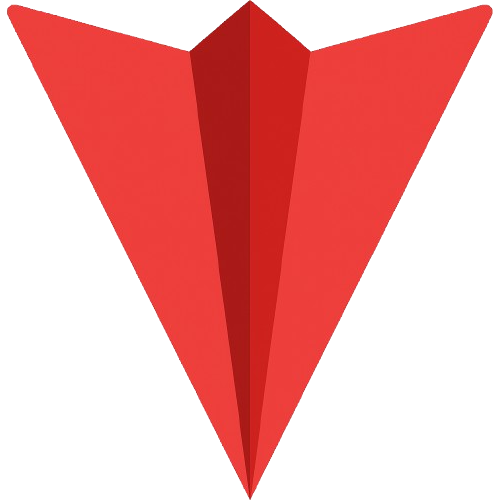
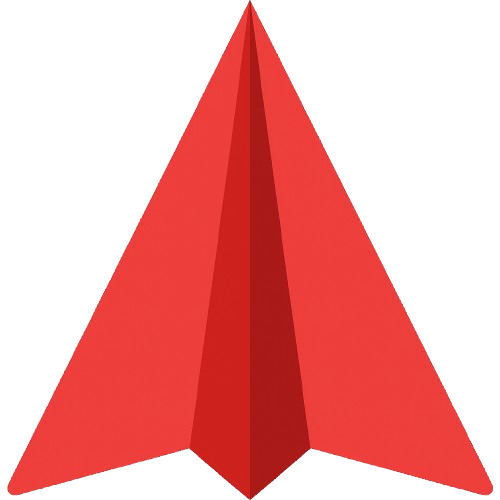
Airplane animation hovering done

diff --git a/Motion Graphic Design & Animation Principles Website - Zajno Digital Studio.html b/Motion Graphic Design & Animation Principles Website - Zajno Digital Studio.html
@@ -3540,8 +3540,10 @@
                         <div class="ball-divider is-left"></div>
                         <div class="anim-ball-border"></div>
                         <div id="anim-ball" class="anim-ball is-intro">
-                            <img src="airplane.png" alt="Airplane"
-                                style="width: 100%; height: 100%; object-fit: contain;">
+                            <img id="airplane-img" src="airplane.png" alt="Airplane"
+                                style="width: 100%; height: 100%; object-fit: contain; transition: opacity 0.4s ease;">
+                            <img id="airplane-red-img" src="airplane1.png" alt="Red Airplane"
+                                style="width: 100%; height: 100%; object-fit: contain; position: absolute; top: 0; left: 0; opacity: 0; transition: opacity 0.4s ease;">
                         </div>
                         <div class="ball-divider is-right"></div>
                         <div class="ball-bg is-left"></div>
@@ -3643,20 +3645,39 @@
                                             style="width: 25vw; transform: translate(0%, 0px);">
                                             <div class="section-slide-wrap" style="flex-direction: row;">
 
-                                                <!-- <div class="section-slide-text" style="position: absolute; top: 30px; left: 20px; z-index: 10; width: 45%;">
-                                                    <div class="section-slide-title" style="font-size: 1.8rem; font-weight: bold; line-height: 1.1; color: #2c3e50; margin-bottom: 1rem; text-transform: uppercase; font-family: Arial, sans-serif;">
-                                                        WE'LL CREATE<br>
-                                                        YOUR PERFECT<br>
-                                                        DREAM
+                                                <div class="section-slide-text">
+                                                    <div class="p3"
+                                                        style="font-size: 0.80rem; font-weight: 800; line-height: 1.1; margin: 0; text-transform: uppercase; letter-spacing: -0.02em;">
+                                                        We’ll map your perfect career path
                                                     </div>
-                                                    <div class="section-slide-subtitle" style="font-size: 0.8rem; color: #7f8c8d; line-height: 1.4; font-weight: normal;">
-                                                        Start achieving your career goals.<br>
-                                                        Join us today.
+                                                    <div  style="padding-top:40px; font-size: 0.20rem; font-weight: 300; line-height: 1.1; margin: 0; text-transform: uppercase; letter-spacing: -0.02em;">
+                                                        <p>Start your carrear with Us</p>
+                                                        <p >choose your dream career
+                                                            </p>
                                                     </div>
-                                                </div> -->
+                                                </div>
 
-                                                 <div class="section-slide-text">
-                                                     <div class="p3" style="font-size: 1rem; font-weight: 800; line-height: 1.1; margin: 0; text-transform: uppercase; letter-spacing: -0.02em;">We’ll map your perfect career path </div>
+
+                                                <div class="section-slide-img-wrap">
+                                                    <div class="section-slide-video w-embed">
+                                                        <img src="./story_section_images/We’ll map your perfect career path-01.svg"
+                                                            alt="Career Path Illustration"
+                                                            style="width: 100%; height: 100%; object-fit: contain;">
+                                                    </div>
+                                                </div>
+
+                                            </div>
+                                        </div>
+                                        <div class="section-slide ui-slide"
+                                            style="width: 25vw; transform: translate(0%, 0px);">
+                                            <div class="section-slide-wrap" style="flex-direction: row;">
+
+
+
+                                                <div class="section-slide-text">
+                                                    <div class="p3"
+                                                        style="font-size: 1rem; font-weight: 800; line-height: 1.1; margin: 0; text-transform: uppercase; letter-spacing: -0.02em;">
+                                                        We’ll map your perfect career path </div>
                                                 </div>
 
 
@@ -3676,7 +3697,9 @@
                                             <div class="section-slide-wrap" style="flex-direction: row;">
 
                                                 <div class="section-slide-text">
-                                                     <div class="p3" style="font-size: 1rem; font-weight: 800; line-height: 1.1; margin: 0; text-transform: uppercase; letter-spacing: -0.02em;">From one moment of confusion... to endless clear paths.</div>
+                                                    <div class="p3"
+                                                        style="font-size: 1rem; font-weight: 800; line-height: 1.1; margin: 0; text-transform: uppercase; letter-spacing: -0.02em;">
+                                                        From one moment of confusion... to endless clear paths.</div>
                                                 </div>
 
 
@@ -3697,7 +3720,9 @@
                                             <div class="section-slide-wrap" style="flex-direction: row;">
 
                                                 <div class="section-slide-text">
-                                                    <div class="p3" style="font-size: 1rem; font-weight: 800; line-height: 1.1; margin: 0; text-transform: uppercase; letter-spacing: -0.02em;"> Dream college? This is your shot."</div>
+                                                    <div class="p3"
+                                                        style="font-size: 1rem; font-weight: 800; line-height: 1.1; margin: 0; text-transform: uppercase; letter-spacing: -0.02em;">
+                                                        Dream college? This is your shot."</div>
                                                 </div>
 
 
@@ -8187,8 +8212,64 @@
                 });
             }
         });
-    </script><img src="./Motion Graphic Design &amp; Animation Principles Website - Zajno Digital Studio_files/adsct"
-        height="1" width="1" style="display: none;"><img
+    </script>
+
+    <!-- Airplane Transformation Animation -->
+    <script>
+        // Simple airplane transformation - changes to red when reaching DREAMDESK 'A'
+        (function () {
+            function initAirplaneAnimation() {
+                const animBall = document.querySelector("#anim-ball");
+                const airplaneImg = document.getElementById("airplane-img");
+                const airplaneRedImg = document.getElementById("airplane-red-img");
+                const dreamdeskSpan = document.querySelector('.content-wrap.is-hero .h3.white span');
+
+                if (!animBall || !airplaneImg || !airplaneRedImg || !dreamdeskSpan) {
+                    setTimeout(initAirplaneAnimation, 100);
+                    return;
+                }
+
+                let hasChanged = false;
+
+                function checkAlignment() {
+                    const ballRect = animBall.getBoundingClientRect();
+                    const textRect = dreamdeskSpan.getBoundingClientRect();
+
+                    // Get airplane bottom position
+                    const airplaneBottom = ballRect.bottom;
+
+                    // Get DREAMDESK text top position
+                    const dreamdeskTop = textRect.top;
+
+                    // When airplane bottom reaches or passes DREAMDESK top, change to red
+                    if (airplaneBottom >= dreamdeskTop - 30 && !hasChanged) {
+                        // Change to red airplane with smooth transition
+                        airplaneImg.style.opacity = "0";
+                        airplaneRedImg.style.opacity = "1";
+                        hasChanged = true;
+                    } else if (airplaneBottom < dreamdeskTop - 30 && hasChanged) {
+                        // Change back to outline airplane when scrolling back up
+                        airplaneImg.style.opacity = "1";
+                        airplaneRedImg.style.opacity = "0";
+                        hasChanged = false;
+                    }
+                }
+
+                // Check continuously during scroll animations
+                setInterval(checkAlignment, 30);
+            }
+
+            // Start when DOM is ready
+            if (document.readyState === 'loading') {
+                document.addEventListener('DOMContentLoaded', initAirplaneAnimation);
+            } else {
+                initAirplaneAnimation();
+            }
+        })();
+    </script>
+
+    <img src="./Motion Graphic Design &amp; Animation Principles Website - Zajno Digital Studio_files/adsct" height="1"
+        width="1" style="display: none;"><img
         src="./Motion Graphic Design &amp; Animation Principles Website - Zajno Digital Studio_files/adsct(1)"
         height="1" width="1" style="display: none;">
 </body><grammarly-desktop-integration data-grammarly-shadow-root="true"><template shadowrootmode="open">
